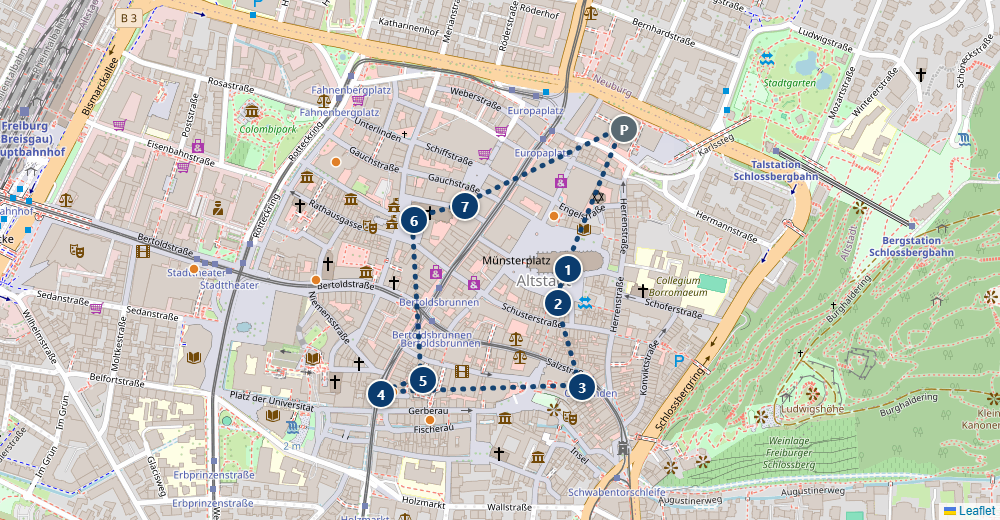
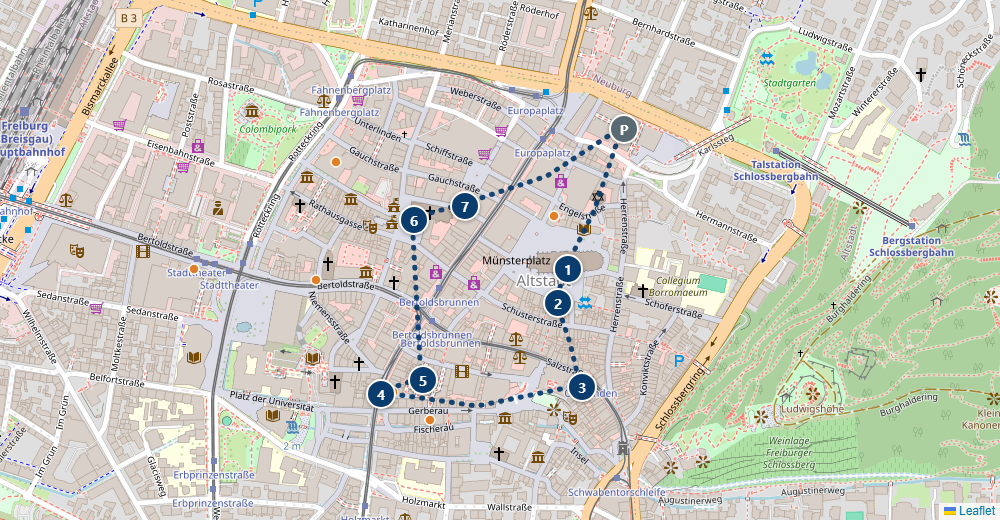
Redraw Freiburg walking route to follow real streets instead of straight lines
Traced waypoints along the actual old-town lanes (Herrenstrasse,
Schusterstrasse/Salzstrasse, Gerberau/Fischerau to Martinstor,
Franziskanerstrasse back up to Rathausplatz) instead of connecting
the 7 numbered stops with straight segments. Pins and food-spot dots
unchanged.

diff --git a/germany-roadtrip-planner.html b/germany-roadtrip-planner.html
@@ -2994,7 +2994,7 @@ document.addEventListener('DOMContentLoaded', function(){
       <a class="walk-map-link" href="https://www.google.com/maps/dir/?api=1&travelmode=walking&origin=47.9975,7.8541&destination=47.9975,7.8541&waypoints=47.9955%2C7.8529%7C47.995%2C7.8527%7C47.9938%2C7.8532%7C47.9937%2C7.8489%7C47.9939%2C7.8498%7C47.9962%2C7.8496%7C47.9964,7.8507" target="_blank" rel="noopener">📍 Google 지도로 도보 코스 보기(출발·도착: Parkhaus Karlsbau) · 총 약 2.1km · 도보 약 30분</a>
       <div class="route-snapshot">
         <div class="route-snapshot-media">
-          <img src="images/routes/freiburg.png?v=5" alt="프라이부르크 도보 코스 지도 스냅샷" loading="lazy">
+          <img src="images/routes/freiburg.png?v=6" alt="프라이부르크 도보 코스 지도 스냅샷" loading="lazy">
         </div>
         <ol class="route-steps">
         <li class="rs-p"><span class="rs-name">주차장(Parkhaus Karlsbau)</span></li>

diff --git a/index.html b/index.html
@@ -2994,7 +2994,7 @@ document.addEventListener('DOMContentLoaded', function(){
       <a class="walk-map-link" href="https://www.google.com/maps/dir/?api=1&travelmode=walking&origin=47.9975,7.8541&destination=47.9975,7.8541&waypoints=47.9955%2C7.8529%7C47.995%2C7.8527%7C47.9938%2C7.8532%7C47.9937%2C7.8489%7C47.9939%2C7.8498%7C47.9962%2C7.8496%7C47.9964,7.8507" target="_blank" rel="noopener">📍 Google 지도로 도보 코스 보기(출발·도착: Parkhaus Karlsbau) · 총 약 2.1km · 도보 약 30분</a>
       <div class="route-snapshot">
         <div class="route-snapshot-media">
-          <img src="images/routes/freiburg.png?v=5" alt="프라이부르크 도보 코스 지도 스냅샷" loading="lazy">
+          <img src="images/routes/freiburg.png?v=6" alt="프라이부르크 도보 코스 지도 스냅샷" loading="lazy">
         </div>
         <ol class="route-steps">
         <li class="rs-p"><span class="rs-name">주차장(Parkhaus Karlsbau)</span></li>
